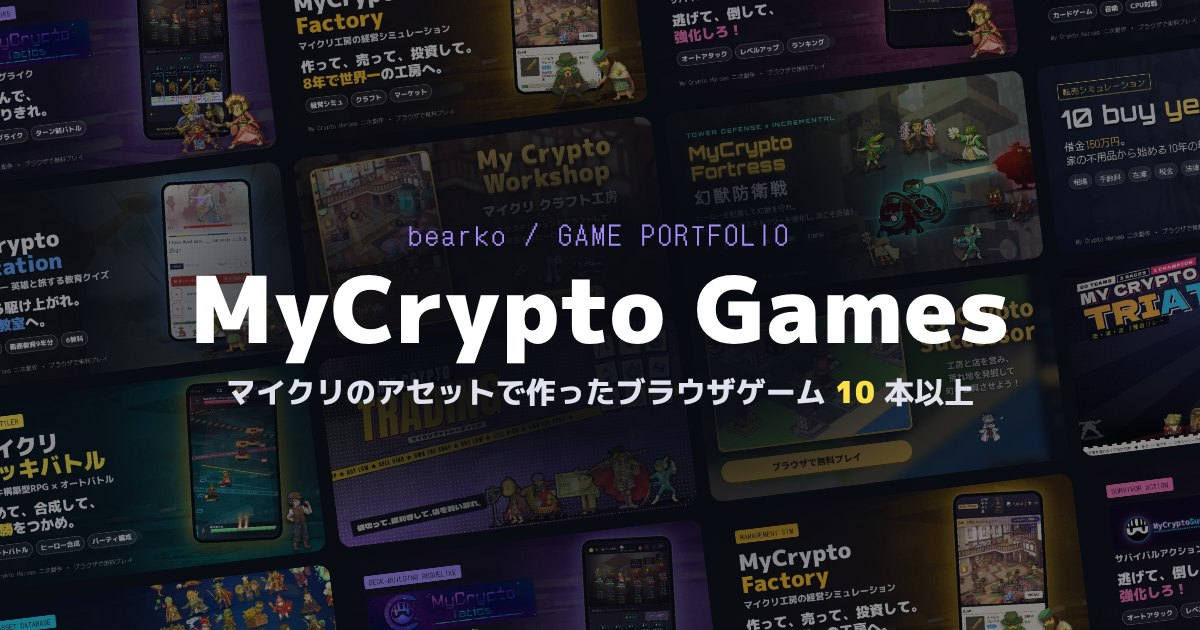
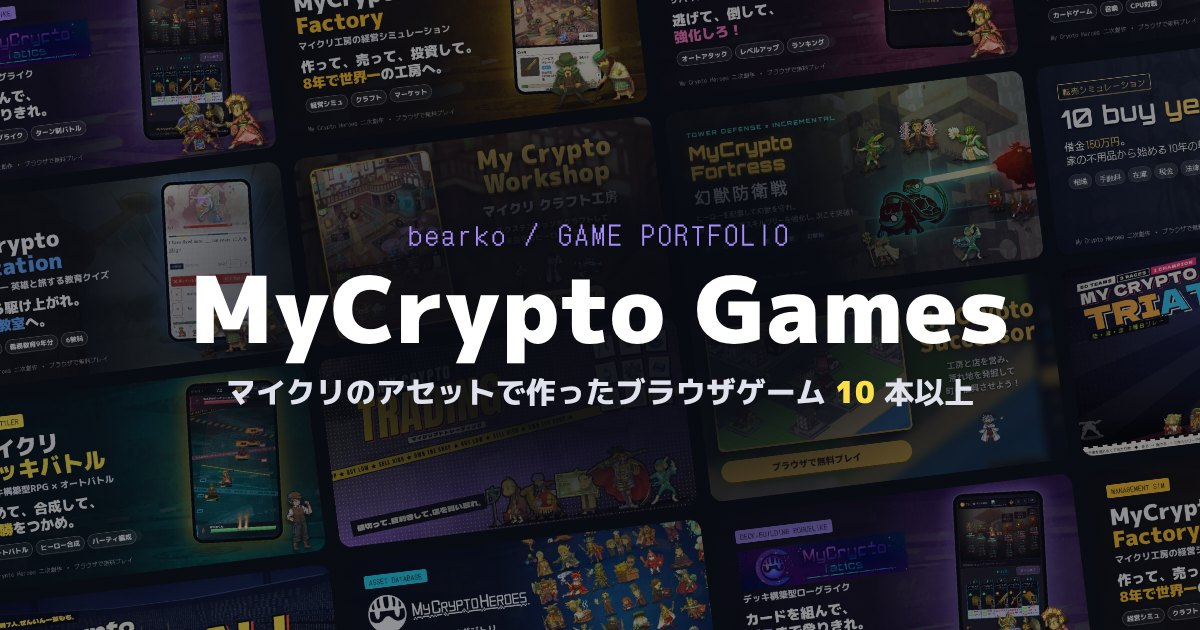
feat(portal): MyCryptoFootball をポータルと共通基盤に登録する（開発中のくくり） (#94)
- platform/trophies.js: GAME_HOSTS・GAME_NAMES に football、来訪のアチーブメント football.visit
  （エクステンション「バイソン」・スキル「レイドブル」。ボールを持って突き進む RB から）。
  ほかのアチーブメント・総合スコア・RTA はまだ（ゲーム側の案は docs/PLATFORM.md）
- js/games.js: 13 本目として「開発中のゲーム」に掲載（ゲーム側の依頼どおりの掲載文・横 16:9 の画面写真）
- assets: サムネイルと画面写真 3 枚（ゲームの docs/portal/ の jpg を webp に）
- 表示名（流れの帯・SDK のチャットの札・チャット・管理画面・PORTAL_GAMES）、og-image.jpg を作り直した
- テスト：football もクリアの検査から外す。PORTAL_GAMES は 14
- docs: INTEGRATION.md の表とタイトル ID、ACHIEVEMENT_CATALOG.md

Claude-Session: https://claude.ai/code/session_019yDScE4q2ECipUMzp3dNim

Changed region(s): [[0.0, 0.754, 1.0, 1.0]]

diff --git a/platform/trophies.js b/platform/trophies.js
@@ -19,6 +19,7 @@ export const GAME_HOSTS = {
   trading: 'trading.bearko.games',
   successor: 'successor.bearko.games',
   triathlon: 'triathlon.bearko.games',
+  football: 'football.bearko.games',
 };
 
 export const GAME_NAMES = {
@@ -34,6 +35,7 @@ export const GAME_NAMES = {
   trading: 'MyCryptoTrading',
   successor: 'MyCryptoSuccessor',
   triathlon: 'MyCryptoTriathlon',
+  football: 'MyCryptoFootball',
   cross: 'タイトル横断',
 };
 
@@ -193,6 +195,7 @@ export const TROPHIES = [
   { id: 'trading.visit', game: 'trading', name: 'みかじめ料', nameFrom: 'エクステンション「ワニ革財布」のスキル', avatar: 'ext:4172', avatarName: 'ワニ革財布', description: 'MyCryptoTrading を遊ぶ', visit: true },
   { id: 'successor.visit', game: 'successor', name: '金瘡治療の計', nameFrom: 'エクステンション「義士の采配」のスキル', avatar: 'ext:4095', avatarName: '義士の采配', description: 'MyCryptoSuccessor を遊ぶ', visit: true },
   { id: 'triathlon.visit', game: 'triathlon', name: '衝角', nameFrom: 'エクステンション「チャリオット」のスキル', avatar: 'ext:4090', avatarName: 'チャリオット', description: 'MyCryptoTriathlon を遊ぶ', visit: true },
+  { id: 'football.visit', game: 'football', name: 'レイドブル', nameFrom: 'エクステンション「バイソン」のスキル', avatar: 'ext:4023', avatarName: 'バイソン', description: 'MyCryptoFootball を遊ぶ', visit: true },
   { id: 'cross.welcome', game: 'cross', name: 'シューティング・スター', nameFrom: 'エクステンション「流星のホーキ」のスキル', avatar: 'ext:4080', avatarName: '流星のホーキ', description: 'マインの話を聞く', judge: 'welcome' },
   { id: 'cross.login', game: 'cross', name: 'クレイジーMaster Nobの御加護', nameFrom: 'エクステンション「クレイジーMCHメダル」のスキル', avatar: 'ext:4033', avatarName: 'クレイジーMCHメダル', description: 'Google でログインする', judge: 'login' },
   { id: 'cross.avatar', game: 'cross', name: '奉神礼', nameFrom: 'エクステンション「宝冠」のスキル', avatar: 'ext:4036', avatarName: '宝冠', description: 'アイコンを変える', judge: 'avatar' },

diff --git a/js/games.js b/js/games.js
@@ -227,6 +227,26 @@ export const GAMES = [
     wide: true,        // 横 16:9（1280×720）
     support: 'スマホ横 / PC',
   },
+  {
+    id: 'football',
+    no: 13,
+    title: 'MyCryptoFootball',
+    genre: '育成カードゲーム（スポーツ）',
+    play: '横持ち。練習カードで鍛えて、作戦カードで勝つ',
+    moods: ['think'],
+    status: '開発中',
+    stage: 'dev',      // 最後まで遊べる。難しさとアチーブメントは調整中
+    url: 'https://football.bearko.games/',
+    repo: 'https://github.com/bearko/mycryptofootball',
+    accent: '#ffe14a',
+    icon: MCH + 'Image/Heroes/5019.png',
+    lead: '一芸もちのヒーローと、名門校をめざせ。',
+    body: 'ヒーロー7人の素人アメフト部の監督になり、練習カードで鍛え、作戦カードの読み合いで試合に勝つ育成ゲーム。勝てば部の格が上がって部員がふえ、試合は6人制から11人制へ。3年で卒業する部員を送り出しながら、世代を重ねて全国大会の頂点を目指します。マネージャーが最初の1週間を案内するので、アメフトを知らなくても遊べます。',
+    tags: ['育成', 'カードゲーム', 'スポーツ', 'アメフト', '横持ち'],
+    shots: 3,
+    wide: true,        // 横 16:9（1280×720）
+    support: 'スマホ横 / PC',
+  },
 ];
 
 // ⓪ 全作品の土台。ゲームではないので一覧の最後に別枠で出す

diff --git a/sdk/v1.js b/sdk/v1.js
@@ -482,7 +482,7 @@
     listeners: [], toggles: [], composes: [], mounts: [], sheetWatching: false, focused: 0,
   };
   var CHAT_CLOSE_AFTER = 30e3, CHAT_PING_EVERY = 25e3, CHAT_MAX = 200, CHAT_KEEP = 600, CHAT_PAGE = 50;
-  var GAME_LABEL = { survivor: 'Survivor', tactics: 'Tactics', workshop: 'Workshop', factory: 'Factory', fortress: 'Fortress', deckbattle: 'DeckBattle', '10buy': '10 buy year!', '10buy-year': '10 buy year!', education: 'Education', advance: 'Advance', trading: 'Trading', successor: 'Successor', triathlon: 'Triathlon', portal: 'bearko.games' };
+  var GAME_LABEL = { survivor: 'Survivor', tactics: 'Tactics', workshop: 'Workshop', factory: 'Factory', fortress: 'Fortress', deckbattle: 'DeckBattle', '10buy': '10 buy year!', '10buy-year': '10 buy year!', education: 'Education', advance: 'Advance', trading: 'Trading', successor: 'Successor', triathlon: 'Triathlon', football: 'Football', portal: 'bearko.games' };
   var ASSET_BASE = 'https://raw.githubusercontent.com/bearko/mycryptoheroes/main/';
   var CHAT_ERR = { rate: '少し待ってから送ってください', login: 'ログインすると参加できます', name: '名前を決めると参加できます', banned: 'このアカウントは発言できません', long: '1〜200 文字で送ってください', parent: 'その発言はもうありません', not_found: 'その発言はもうありません', owner: '自分の発言だけ直せます' };
 

diff --git a/index.html b/index.html
@@ -142,7 +142,7 @@
     var msgs = BearkoGames.chat.getMessages().filter(function (m) { return m.parent == null; }).sort(function (a, b) { return b.id - a.id; }).slice(0, 12);
     ticker.hidden = !msgs.length;
     if (!msgs.length) return;
-    var LABEL = { survivor: 'Survivor', tactics: 'Tactics', workshop: 'Workshop', factory: 'Factory', fortress: 'Fortress', deckbattle: 'DeckBattle', '10buy': '10 buy year!', education: 'Education', advance: 'Advance', trading: 'Trading', successor: 'Successor', triathlon: 'Triathlon', portal: 'bearko.games' };
+    var LABEL = { survivor: 'Survivor', tactics: 'Tactics', workshop: 'Workshop', factory: 'Factory', fortress: 'Fortress', deckbattle: 'DeckBattle', '10buy': '10 buy year!', education: 'Education', advance: 'Advance', trading: 'Trading', successor: 'Successor', triathlon: 'Triathlon', football: 'Football', portal: 'bearko.games' };
     track.textContent = '';
     // 同じ列を 2 回並べ、半分ぶん流して戻すと切れ目なく回る
     [0, 1].forEach(function (k) {

diff --git a/chat/index.html b/chat/index.html
@@ -37,7 +37,7 @@
   // SPEC-005 5.5：タイトル横断のタイムライン。窓は使わず、SDK の mount でこの場所に描く
   (function () {
     var BG = window.BearkoGames;
-    var GAMES = [['', 'すべて'], ['survivor', 'Survivor'], ['tactics', 'Tactics'], ['workshop', 'Workshop'], ['factory', 'Factory'], ['fortress', 'Fortress'], ['deckbattle', 'DeckBattle'], ['10buy', '10 buy year!'], ['education', 'Education'], ['trading', 'Trading'], ['successor', 'Successor'], ['triathlon', 'Triathlon'], ['portal', 'bearko.games']];
+    var GAMES = [['', 'すべて'], ['survivor', 'Survivor'], ['tactics', 'Tactics'], ['workshop', 'Workshop'], ['factory', 'Factory'], ['fortress', 'Fortress'], ['deckbattle', 'DeckBattle'], ['10buy', '10 buy year!'], ['education', 'Education'], ['trading', 'Trading'], ['successor', 'Successor'], ['triathlon', 'Triathlon'], ['football', 'Football'], ['portal', 'bearko.games']];
     var current = '';
     var counts = {};
     function renderFilters() {

diff --git a/admin/index.html b/admin/index.html
@@ -462,7 +462,7 @@
 
   // ---------------------------------------------------------------- ポータルの計測（SPEC-009）
   var PORTAL_NAMES = { tactics: 'Tactics', factory: 'Factory', survivor: 'Survivor', tcg: 'TCG', education: 'Education', workshop: 'Workshop',
-    fortress: 'Fortress', tenbuy: '10 buy year', deckbattle: 'DeckBattle', trading: 'Trading', successor: 'Successor', triathlon: 'Triathlon', heroes: 'mycryptoheroes' };
+    fortress: 'Fortress', tenbuy: '10 buy year', deckbattle: 'DeckBattle', trading: 'Trading', successor: 'Successor', triathlon: 'Triathlon', football: 'Football', heroes: 'mycryptoheroes' };
   var MOOD_NAMES = { '': 'すべて', quick: 'サクッと遊ぶ', action: 'アクション', think: 'じっくり考える', idle: '経営・放置', learn: '学べる' };
   function renderPortal() {
     api('GET', '/api/admin/portal?days=' + $('pdays').value).then(function (r) {

diff --git a/platform/portal-stats.js b/platform/portal-stats.js
@@ -2,7 +2,7 @@
 // だれかを見分ける値（アカウント・Cookie・IP・端末の番号）は受け取らない・残さない。
 
 // 作品はポータルの台帳（js/games.js）の id。共通基盤のタイトル ID（10buy）とは違う（tenbuy）
-export const PORTAL_GAMES = ['tactics', 'factory', 'survivor', 'tcg', 'education', 'workshop', 'fortress', 'tenbuy', 'deckbattle', 'trading', 'successor', 'triathlon', 'heroes'];
+export const PORTAL_GAMES = ['tactics', 'factory', 'survivor', 'tcg', 'education', 'workshop', 'fortress', 'tenbuy', 'deckbattle', 'trading', 'successor', 'triathlon', 'football', 'heroes'];
 const MOODS = ['', 'quick', 'action', 'think', 'idle', 'learn'];
 
 // できごと → 作品が要るか・「どこから」に入ってよい値

diff --git a/tools/thumbs/og.html b/tools/thumbs/og.html
@@ -28,7 +28,7 @@
   <p>マイクリのアセットで作ったブラウザゲーム <b>10</b> 本以上</p>
 </div>
 <script>
-  const ids = ['tactics','factory','survivor','tcg','education','workshop','fortress','tenbuy','deckbattle','trading','successor','triathlon','heroes'];
+  const ids = ['tactics','factory','survivor','tcg','education','workshop','fortress','tenbuy','deckbattle','trading','successor','triathlon','football','heroes'];
   document.getElementById('wall').innerHTML = [...ids, ...ids].slice(0, 16)
     .map(id => `<img src="../../assets/thumbs/${id}.webp">`).join('');
 </script>

diff --git a/docs/ACHIEVEMENT_CATALOG.md b/docs/ACHIEVEMENT_CATALOG.md
@@ -149,7 +149,7 @@
 | 099 | `cross.allext` | Legendary | 葛飾北斎 | 富嶽三十六景 | エクステンションのアチーブメントをすべて集める |
 | 100 | `cross.book99` | Legendary | 始皇帝 | 中国統一 | ヒーロー名鑑のほかの 99 枚をすべて埋める |
 
-## エクステンション（43 個：Common 0・Uncommon 0・Rare 0・Epic 33・Legendary 10）
+## エクステンション（44 個：Common 0・Uncommon 0・Rare 0・Epic 34・Legendary 10）
 
 | No. | ID | レアリティ | 絵 | 名前 | 条件 |
 |---|---|---|---|---|---|
@@ -189,6 +189,7 @@
 |  | `trading.visit` | Epic | ワニ革財布 | みかじめ料 | MyCryptoTrading を遊ぶ |
 |  | `successor.visit` | Epic | 義士の采配 | 金瘡治療の計 | MyCryptoSuccessor を遊ぶ |
 |  | `triathlon.visit` | Epic | チャリオット | 衝角 | MyCryptoTriathlon を遊ぶ |
+|  | `football.visit` | Epic | バイソン | レイドブル | MyCryptoFootball を遊ぶ |
 |  | `cross.welcome` | Epic | 流星のホーキ | シューティング・スター | マインの話を聞く |
 |  | `cross.login` | Epic | クレイジーMCHメダル | クレイジーMaster Nobの御加護 | Google でログインする |
 |  | `cross.avatar` | Epic | 宝冠 | 奉神礼 | アイコンを変える |
